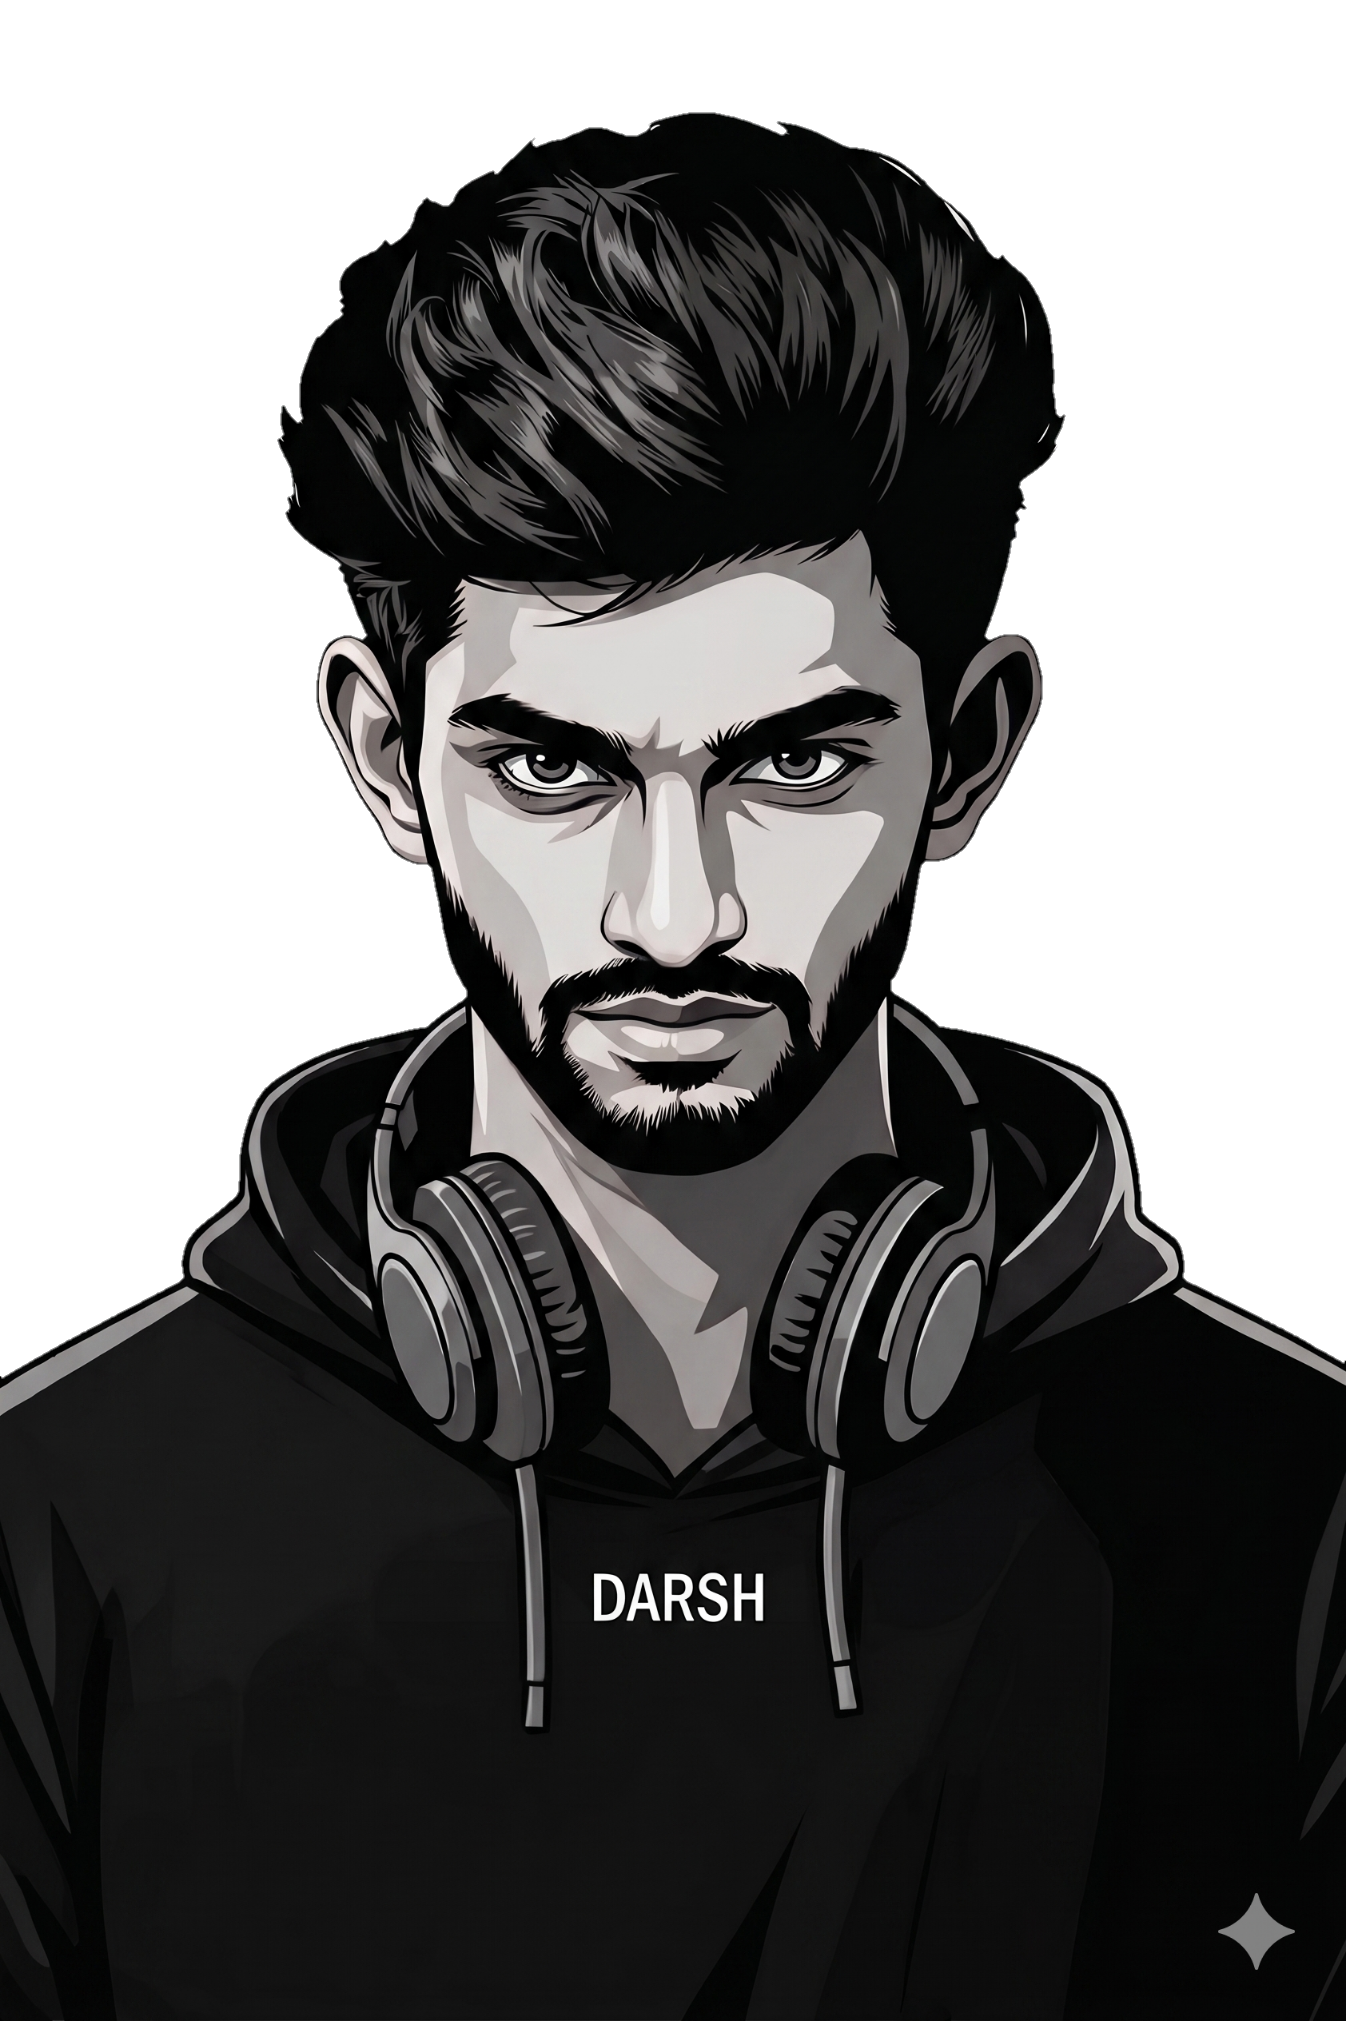
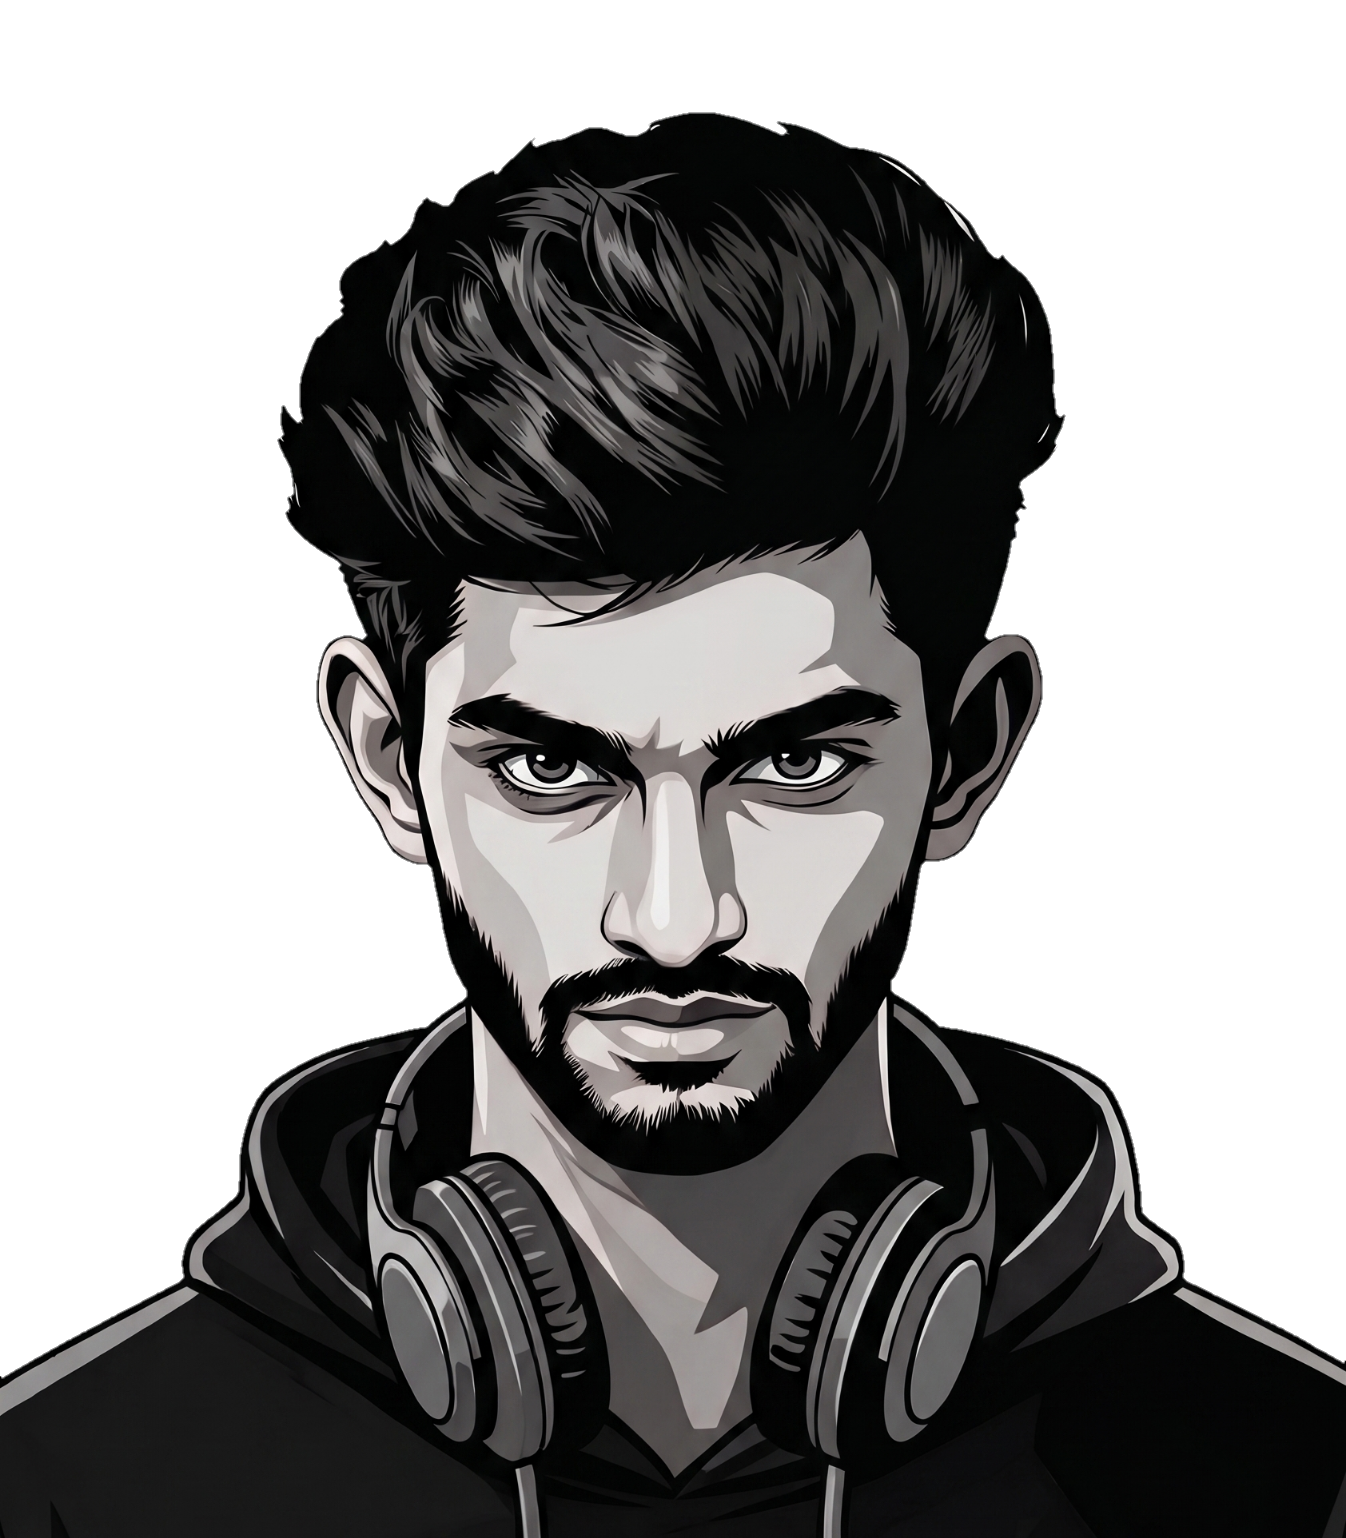
Dock-Optimised

diff --git a/src/components/Hero.tsx b/src/components/Hero.tsx
@@ -63,32 +63,23 @@ export default function Hero() {
         initial={{ scale: 1.05 }}
         animate={{ scale: 1 }}
         transition={{ duration: 2, ease: "easeOut" }}
-        className="absolute right-0 md:right-[-18vw] top-0 h-full w-[100vw] md:w-[55vw] overflow-hidden pointer-events-none"
+        className="absolute right-0 md:right-[-18vw] top-10 md:top-0 h-full w-[100vw] md:w-[55vw] overflow-hidden pointer-events-none"
       >
         {/* SOFT EDGE MASK */}
         <motion.div
-          initial={{ opacity: 0 }}
-          animate={{ opacity: 0.55 }}
-          transition={{ duration: 2, ease: "easeOut" }}
-          className="w-full h-full"
-          style={{
-            WebkitMaskImage:
-              "radial-gradient(ellipse at 65% 50%, black 45%, transparent 80%)",
-            maskImage:
-              "radial-gradient(ellipse at 65% 50%, black 45%, transparent 80%)",
-          }}
+          className="absolute inset-0 pointer-events-none hero-mask"
         >
           <motion.div
             animate={{ scale: [1, 1.02, 1] }}
             transition={{ duration: 12, repeat: Infinity, ease: "easeInOut" }}
-            className="w-full h-full"
+            className="w-full h-full scale-90 md:scale-100"
           >
             <Image
-              src="/darshcs.png"
+              src="/darsh1.png"
               alt="Darshan"
               fill
               priority
-              className="object-cover hero-img opacity-60 md:opacity-[0.35]"
+              className="object-cover hero-img opacity-75 md:opacity-[0.35]"
               style={{
                 marginTop: "30px"
               }}
@@ -99,7 +90,7 @@ export default function Hero() {
       </motion.div>
 
       {/* ================= CONTENT ================= */}
-      <div className="relative z-10 max-w-7xl mx-auto px-6 md:px-10 lg:px-14 w-full">
+      <div className="relative z-10 max-w-7xl mx-auto px-6 md:px-10 lg:px-14 w-full -mt-56 md:mt-0">
 
         {/* TOP META */}
         <motion.div
@@ -195,9 +186,20 @@ export default function Hero() {
         .hero-img {
           object-position: left center;
         }
-        @media (max-width: 767px) {
+        .hero-mask {
+          -webkit-mask-image: radial-gradient(ellipse at 65% 50%, black 45%, transparent 80%);
+          mask-image: radial-gradient(ellipse at 65% 50%, black 45%, transparent 80%);
+        }
+        @media (max-width: 760px) {
           .hero-img {
-            object-position: 10% center !important;
+            object-position: center !important;
+            transform: scale(0.85) translateY(-2%) translateX();
+          }
+          .hero-mask {
+            -webkit-mask-image: linear-gradient(to bottom, black 60%, transparent 85%), radial-gradient(circle at 50% 40%, black 40%, transparent 80%);
+            mask-image: linear-gradient(to bottom, black 60%, transparent 85%), radial-gradient(circle at 50% 40%, black 40%, transparent 80%);
+            -webkit-mask-composite: source-in;
+            mask-composite: intersect;
           }
         }
       `}</style>

diff --git a/src/components/Dock.tsx b/src/components/Dock.tsx
@@ -76,7 +76,7 @@ function DockItem({
       onFocus={() => isHovered.set(1)}
       onBlur={() => isHovered.set(0)}
       onClick={onClick}
-      className={`relative inline-flex items-center justify-center rounded-full bg-[#120F17] border-neutral-700 border-2 shadow-md ${className}`}
+      className={`relative inline-flex items-center justify-center rounded-full bg-white/5 text-white/70 hover:text-white hover:bg-white/15 transition-colors shadow-sm ${className}`}
       tabIndex={0}
       role="button"
       aria-haspopup="true"
@@ -115,7 +115,7 @@ function DockLabel({ children, className = "", isHovered }: DockLabelProps) {
           animate={{ opacity: 1, y: -10 }}
           exit={{ opacity: 0, y: 0 }}
           transition={{ duration: 0.2 }}
-          className={`${className} absolute -top-6 left-1/2 w-fit whitespace-pre rounded-md border border-neutral-700 bg-[#120F17] px-2 py-0.5 text-xs text-white`}
+          className={`${className} absolute -top-8 left-1/2 w-fit whitespace-pre rounded-md border border-white/10 bg-black/60 backdrop-blur-md px-2 py-1 text-[10px] tracking-wide text-white/90 shadow-xl`}
           role="tooltip"
           style={{ x: "-50%" }}
         >
@@ -164,7 +164,7 @@ export default function Dock({
           isHovered.set(0);
           mouseX.set(Infinity);
         }}
-        className={`${className} absolute bottom-2 left-1/2 transform -translate-x-1/2 flex items-end w-fit gap-4 rounded-2xl border-neutral-700 border-2 pb-2 px-4`}
+        className={`${className} absolute bottom-4 left-1/2 transform -translate-x-1/2 flex items-end w-fit gap-3 rounded-2xl bg-black/40 backdrop-blur-xl ring-1 ring-[#a855f7]/50 shadow-[0_0_20px_rgba(168,85,247,0.4)] pb-2 pt-2 px-3`}
         style={{ height: panelHeight }}
         role="toolbar"
         aria-label="Application dock"

diff --git a/src/components/ChatBot.tsx b/src/components/ChatBot.tsx
@@ -182,6 +182,13 @@ export default function ChatBot() {
     }
   }, [hasOpened]);
 
+  // Listen for custom event to open from dock
+  useEffect(() => {
+    const handleCustomOpen = () => handleOpen();
+    window.addEventListener("open-chatbot", handleCustomOpen);
+    return () => window.removeEventListener("open-chatbot", handleCustomOpen);
+  }, [handleOpen]);
+
   const handleSend = useCallback(() => {
     const trimmed = input.trim();
     if (!trimmed) return;
@@ -220,7 +227,7 @@ export default function ChatBot() {
             exit={{ scale: 0, opacity: 0 }}
             transition={{ type: "spring", stiffness: 260, damping: 20 }}
             onClick={handleOpen}
-            className="fixed bottom-6 right-6 z-[9998] w-14 h-14 rounded-full flex items-center justify-center cursor-pointer"
+            className="hidden md:flex fixed md:bottom-6 md:right-6 z-[9998] w-14 h-14 rounded-full items-center justify-center cursor-pointer"
             style={{
               background: "linear-gradient(135deg, #7B2FBE 0%, #A036D9 100%)",
               boxShadow: "0 8px 32px rgba(160, 54, 217, 0.4), 0 0 0 1px rgba(255,255,255,0.06)",
@@ -252,7 +259,7 @@ export default function ChatBot() {
             animate={{ opacity: 1, y: 0, scale: 1 }}
             exit={{ opacity: 0, y: 20, scale: 0.95 }}
             transition={{ duration: 0.3, ease: [0.16, 1, 0.3, 1] }}
-            className="fixed bottom-6 right-6 z-[9998] flex flex-col"
+            className="fixed bottom-20 left-1/2 -translate-x-1/2 md:left-auto md:translate-x-0 md:bottom-6 md:right-6 z-[9998] flex flex-col"
             style={{
               width: "min(400px, calc(100vw - 48px))",
               height: "min(560px, calc(100vh - 120px))",

diff --git a/src/components/Navbar.tsx b/src/components/Navbar.tsx
@@ -3,7 +3,7 @@
 import { useState, useEffect, useRef, MouseEvent } from "react";
 import { motion, useMotionValue, useSpring, AnimatePresence } from "framer-motion";
 import Dock from "./Dock";
-import { VscPerson, VscBriefcase, VscTools, VscMail } from "react-icons/vsc";
+import { VscPerson, VscBriefcase, VscTools, VscMail, VscRobot } from "react-icons/vsc";
 
 const links = [
   { label: "About", href: "#about" },
@@ -17,6 +17,7 @@ const dockItems = [
   { icon: <VscBriefcase size={18} />, label: "Work", onClick: () => window.location.href = "#projects" },
   { icon: <VscTools size={18} />, label: "Expertise", onClick: () => window.location.href = "#skills" },
   { icon: <VscMail size={18} />, label: "Contact", onClick: () => window.location.href = "#contact" },
+  { icon: <VscRobot size={18} />, label: "AI Chat", onClick: () => window.dispatchEvent(new Event("open-chatbot")) },
 ];
 
 /* ─── Magnetic button hook ─── */
@@ -276,7 +277,7 @@ export default function Navbar() {
       {/* ── Mobile Dock ── */}
       <div className="dock-container" style={{ position: "fixed", bottom: 0, left: 0, width: "100%", zIndex: 101, pointerEvents: "none" }}>
         <div style={{ pointerEvents: "auto" }}>
-          <Dock items={dockItems} panelHeight={60} baseItemSize={42} magnification={56} />
+          <Dock items={dockItems} panelHeight={48} baseItemSize={30} magnification={42} distance={60} />
         </div>
       </div>
 
